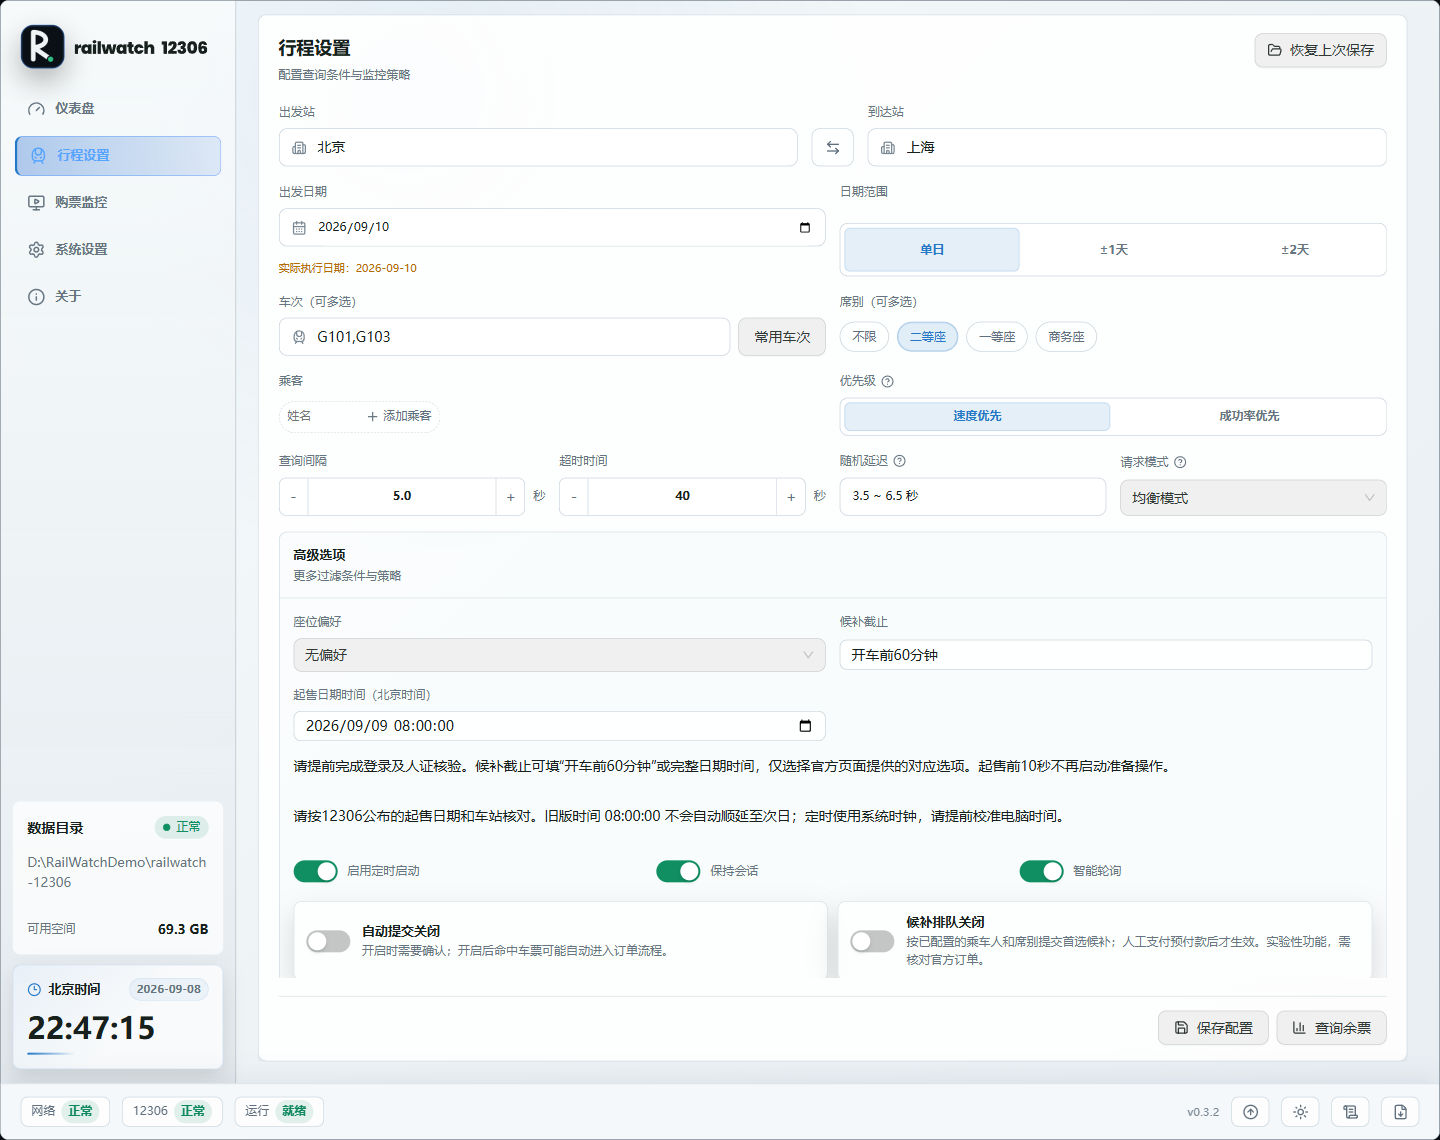
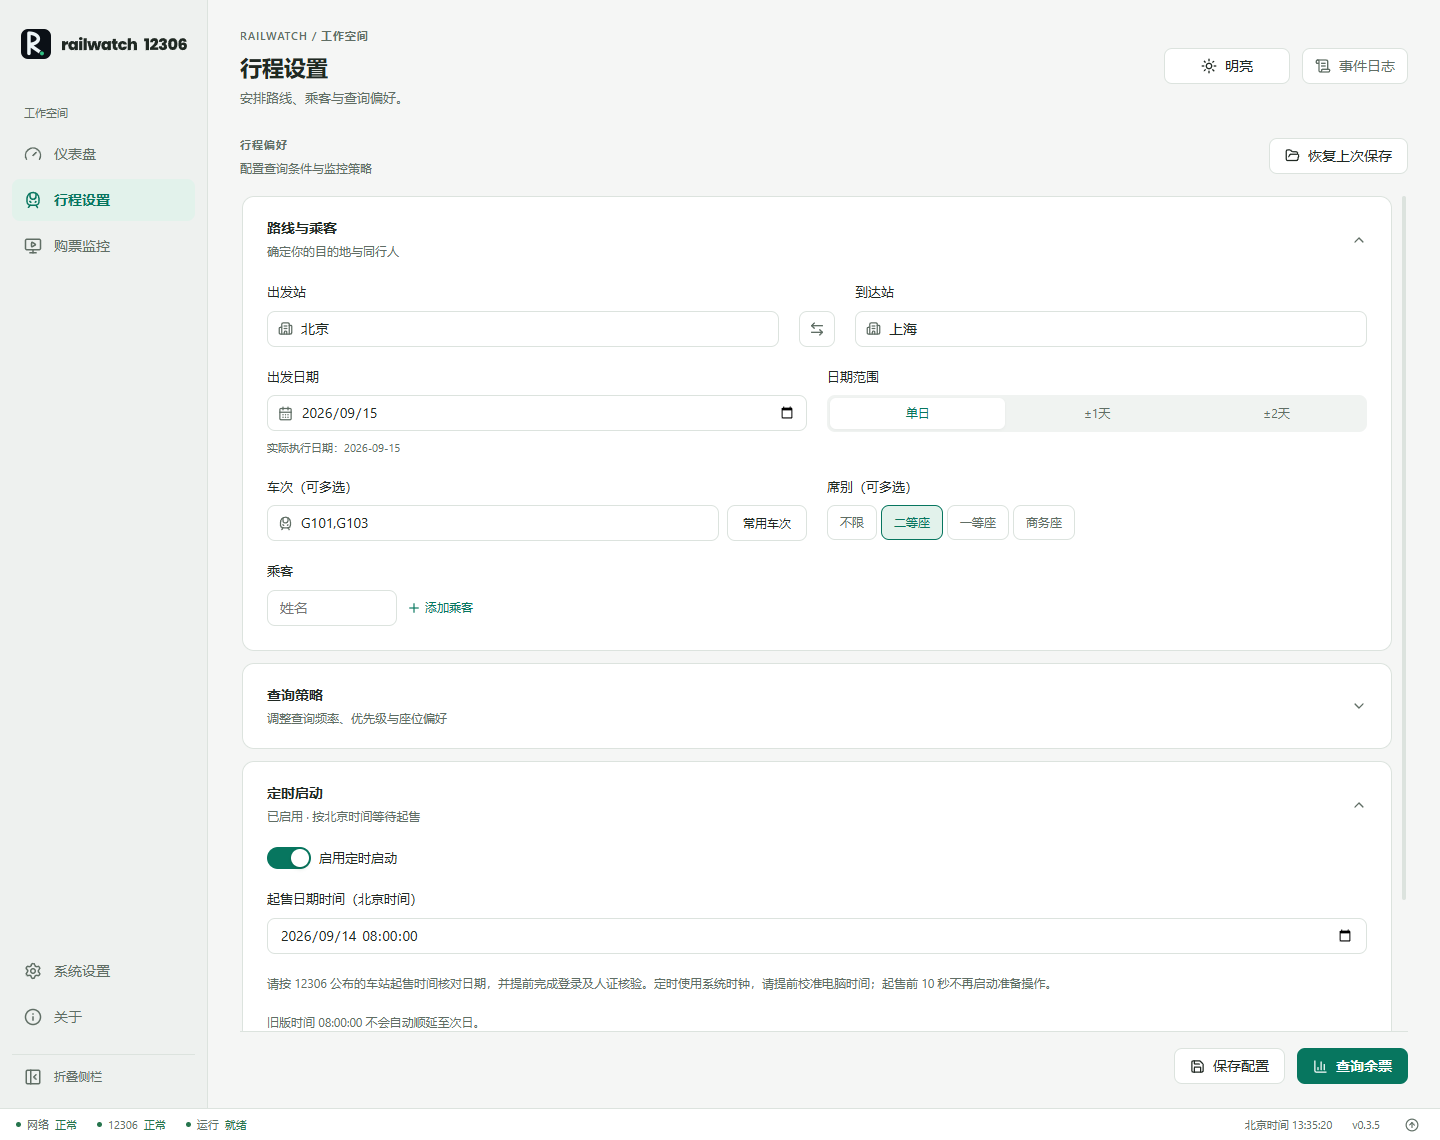
docs: refresh the README screenshot for v0.3.5

diff --git a/README.md b/README.md
@@ -34,7 +34,7 @@
 
 ## 界面预览
 
-![RailWatch v0.3.2 行程设置界面，展示演示路线、车次、席别与北京时间起售配置](docs/images/trip-setup.png)
+![RailWatch v0.3.5 行程设置界面，展示演示路线、车次、席别与北京时间起售配置](docs/images/trip-setup.png)
 
 <p align="center"><sub>当前前端的实际渲染截图，使用演示行程；未连接真实账号，所示车次与时间不作为购票依据。</sub></p>
 
